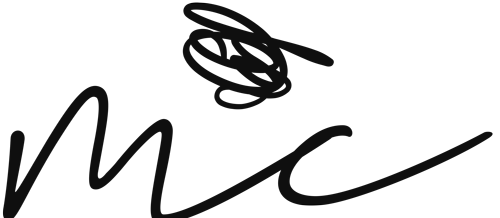
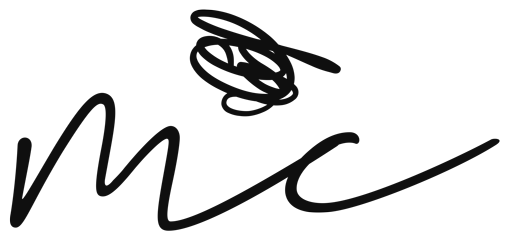
fix: uncut monogram, a priced edition, and an enquiry that knows where it ships
The header logo was cut, and in the file rather than in CSS.
mc-monograma.png had been cropped from the lockup six rows above where the
drawing ends, so the bottoms of the m sat flat on the canvas edge — no
`object-fit` recovers that. Both marks are re-cut in
scripts/marca-monogramas.mjs: trimmed to their own ink, padded by 4% of its
height on every side. Matched files mean the light mark stops needing the
`scale-[1.62]` and the 19px translate that were compensating for its
294x133 of ink adrift in a 500x185 canvas, and the box becomes the marks'
own 2.12:1.

The edition carries a price. 350 USD for the print of Sueño de Primavera,
given by Mariela, set above what is left of the edition and under the
caveats that keep it honest: shipping is quoted against the destination,
and the frame is a Santa Cruz option rather than part of the piece. The
delivery block no longer reads as though the framing were included.
`PrintEdition.price` is optional — no other edition here has a figure.

And the enquiry form asks where the work would go. It is already a separate
form from the commission — four fields on the piece's own page, no "Formato
deseado" for a drawing whose dimensions are printed above it — but it could
not answer the one question a print buyer asks without a round trip, since
the price excludes shipping. "País o ciudad", the same label the commission
form uses.

Verified against a production server: an enquiry missing `lugar` returns
[…]

diff --git a/src/components/layout/SiteHeader.tsx b/src/components/layout/SiteHeader.tsx
@@ -144,57 +144,46 @@ export function SiteHeader({
               browser to fetch the other file — the gap before it arrived is
               the flicker where the logo appeared alone, ahead of the panel.
             */}
-            <span className="relative block h-10 w-[5.75rem] md:h-12 md:w-[6.9rem]">
+            {/*
+              The box is the marks' own proportion, 2.12:1.
+
+              Both PNGs were re-cut from their lockups in `scripts/marca-monogramas.mjs`:
+              trimmed to the ink and padded by 4% of its height on every side,
+              so they now describe the same drawing at the same scale inside
+              their canvas. Two things followed from that.
+
+              The cut is gone. The old mc-monograma.png had been cropped six
+              rows above where the drawing ends — the bottoms of the m sat flat
+              on the file's edge, which is the sliced logo the client saw. The
+              lockup has the whole stroke; the new crop keeps it.
+
+              And the light mark no longer needs correcting. It used to be
+              294x133 of ink adrift in a 500x185 canvas, so fitted to this box
+              it drew a third smaller than the dark one and 31px further right;
+              a `scale-[1.62]` and a translate compensated. Matched files make
+              both of those the identity, so they are gone.
+            */}
+            <span className="relative block h-10 w-[5.3rem] md:h-12 md:w-[6.36rem]">
               <Image
                 src="/marca/mc-monograma.png"
                 alt={name}
                 fill
                 priority
-                sizes="144px"
+                sizes="102px"
                 className={cn(
                   "object-contain object-left transition-opacity duration-300",
                   menuOpen ? "opacity-0" : "opacity-100",
                 )}
               />
-              {/*
-                Scaled to match the dark mark, measured from the ink rather
-                than from the canvas.
-
-                The two files are cropped differently. In the dark one the
-                drawing fills the frame — 491 x 216 of a 500 x 218 canvas, 99%
-                of the height. The light one is 294 x 133 inside 500 x 185:
-                72% of the height and 59% of the width, the rest field. Both
-                are fitted to the same box, so the light mark was drawn at 24.5
-                real pixels against the dark one's 39.6 — a third smaller, and
-                a canvas-ratio correction only recovered a fraction of it.
-
-                1.62 is the ratio of those two drawn heights. At that size the
-                light mark measures 87.6px across a 92px box, so it grows into
-                the space without touching the edge.
-
-                The offset goes with it. Scaling from the left edge scales the
-                file's empty margin too, which put the light drawing 31 screen
-                pixels further right than the dark one — a jump of a third of
-                its own width every time the menu opened.
-
-                19px, not 31: Tailwind v4 emits `translate` and `scale` as
-                separate CSS properties rather than one `transform` list, and
-                the browser applies translate first, so what is asked for here
-                is multiplied by the 1.62 that follows it. 19 x 1.62 is the 31
-                the correction actually needs.
-
-                Still a patch: the fix is re-exporting the light PNG trimmed to
-                its ink like the dark one, and this can go when that happens.
-              */}
               <Image
                 src="/marca/mc-monograma-claro.png"
                 alt=""
                 aria-hidden="true"
                 fill
                 priority
-                sizes="144px"
+                sizes="102px"
                 className={cn(
-                  "origin-left -translate-x-[19px] scale-[1.62] object-contain object-left transition-opacity duration-300",
+                  "object-contain object-left transition-opacity duration-300",
                   menuOpen ? "opacity-100" : "opacity-0",
                 )}
               />

diff --git a/src/app/obra/[slug]/page.tsx b/src/app/obra/[slug]/page.tsx
@@ -165,6 +165,29 @@ export default async function WorkPage({ params }: PageProps<"/obra/[slug]">) {
                   </Display>
                 </Reveal>
 
+                {/*
+                  The price, where there is one, above what is left of the
+                  edition — the two facts a reader is looking for, in the order
+                  they ask them. Serif and at display weight because it is the
+                  one number on the page, and the caveats sit under it in the
+                  quiet register so the figure is not read as the total.
+                */}
+                {work.printEdition.price ? (
+                  <Reveal delay={150} className="mt-lg">
+                    <p className="font-serif text-2xl font-light leading-none text-fg-strong">
+                      {work.printEdition.price.amount}
+                    </p>
+                    {work.printEdition.price.notes.map((note) => (
+                      <p
+                        key={note}
+                        className="mt-2xs max-w-[36ch] font-sans text-xs leading-relaxed text-pretty text-fg-muted"
+                      >
+                        {note}
+                      </p>
+                    ))}
+                  </Reveal>
+                ) : null}
+
                 <Reveal delay={180} className="mt-lg">
                   <p className="font-sans text-sm text-fg-muted">
                     {work.printEdition.availability}

diff --git a/src/content/works.ts b/src/content/works.ts
@@ -680,6 +680,16 @@ export const works: Work[] = [
         "Cada ejemplar se entrega firmado, numerado y acompañado de su certificado de autenticidad",
       ],
       availability: "Último ejemplar disponible",
+      /*
+        Given by Mariela. The figure is the print alone: shipping is quoted
+        against the destination, and the frame is a Santa Cruz option rather
+        than part of the piece — so both are named here instead of being
+        folded into a number that would then be wrong for most buyers.
+      */
+      price: {
+        amount: "350 USD",
+        notes: ["El costo de envío se cotiza aparte, según el destino."],
+      },
       details: {
         label: "Sobre el papel",
         body: "Canson Infinity Edition Etching Rag es un papel Fine Art 100% algodón de 310 g/m², libre de ácido y sin blanqueadores ópticos. Su superficie mate y de grano fino está concebida para reproducción artística de alta calidad y conservación a largo plazo.",
@@ -687,7 +697,7 @@ export const works: Work[] = [
       delivery: {
         label: "Entrega y envío",
         lines: [
-          "En Santa Cruz de la Sierra: se entrega enmarcado.",
+          "En Santa Cruz de la Sierra: se entrega enmarcado. El enmarcado se cotiza aparte.",
           "Envíos fuera de Santa Cruz de la Sierra e internacionales: la impresión se envía cuidadosamente protegida en un tubo rígido para Fine Art.",
         ],
       },

diff --git a/src/content/pages/availability.ts b/src/content/pages/availability.ts
@@ -38,6 +38,14 @@ export const availability: ContactPage = {
       kind: "email",
       required: true,
     },
+    /*
+      Where it would go. The edition is priced without shipping — the cost
+      depends on the destination, and framing only exists as an option in
+      Santa Cruz — so an enquiry that does not say where the person is costs
+      a round trip before Mariela can answer the one question they asked.
+      The commission form asks the same thing under the same label.
+    */
+    { name: "lugar", label: "País o ciudad", kind: "text", required: true },
     {
       name: "interes",
       label: "¿Qué te interesa?",

diff --git a/src/content/types.ts b/src/content/types.ts
@@ -239,6 +239,12 @@ export interface PrintEdition {
   /** Kind, paper, dimensions, edition size, signature — one line each. */
   specs: string[];
   availability: string;
+  /**
+   * What a copy costs, and what that figure leaves out. Optional because most
+   * editions on this site have none — it is stated only where Mariela has
+   * given one.
+   */
+  price?: { amount: string; notes: string[] };
   details: { label: string; body: string };
   delivery: { label: string; lines: string[] };
   action: NavItem;
